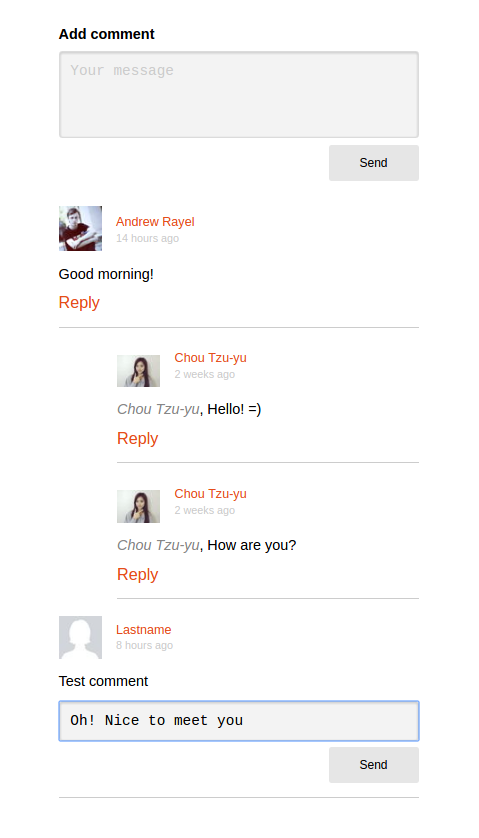
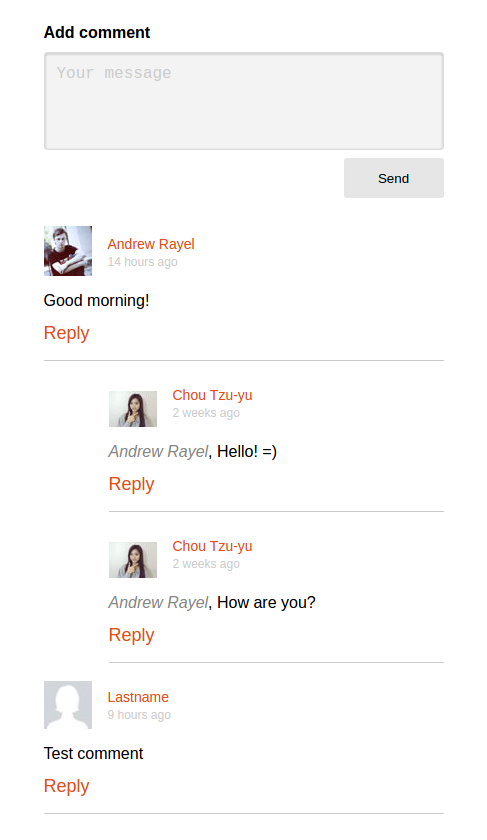
Refactoring and small fix renderComments

diff --git a/src/components/Modules/Comments/index.js b/src/components/Modules/Comments/index.js
@@ -39,19 +39,19 @@ export class Comments extends Component {
       />
     );
 
-    const renderComments = (parentCommentId) => {
+    const renderComments = (parentComment) => {
       // It is inner comments or not?
 
-      const renderCommentsList = comments.filter(comment => parentCommentId
-        ? comment.parentId && comment.parentId === parentCommentId
+      const renderCommentsList = comments.filter(comment => parentComment
+        ? comment.parentId && comment.parentId === parentComment.id
         : !comment.parentId);
 
       if (!renderCommentsList.length) return false;
 
       return (
         <div className={cx(
-          { [s.comments]: !parentCommentId },
-          { [s.innerComments]: parentCommentId },
+          { [s.comments]: !parentComment },
+          { [s.innerComments]: parentComment },
         )}>
           {
             renderCommentsList.map(comment => (
@@ -61,9 +61,9 @@ export class Comments extends Component {
                   handleReply={this.handleReply}
                   showReplyForm={showReplyFormForCommentId === comment.id}
                   AddCommentForm={AddCommentForm}
-                  replyName={parentCommentId && `${comment.author.firstName} ${comment.author.lastName}`}
+                  replyName={parentComment && `${parentComment.author.firstName} ${parentComment.author.lastName}`}
                 />
-                {renderComments(comment.id)}
+                {renderComments(comment)}
               </div>
             ))
           }
